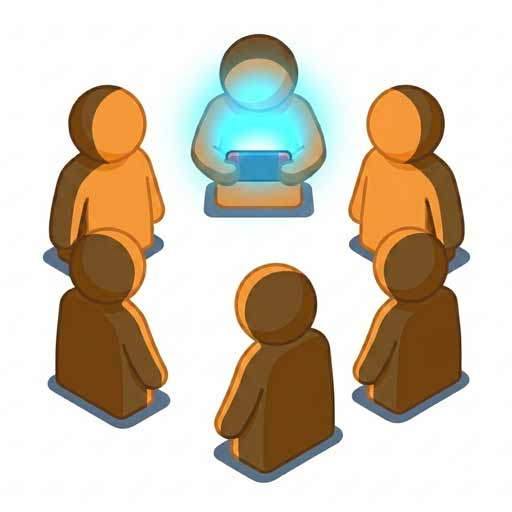
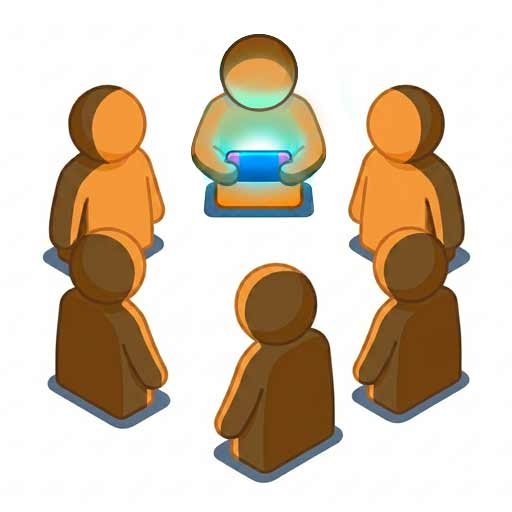
wip(trivia): park in-progress fast_casual_trivia screen changes
Parking pre-existing uncommitted work on the GameMode / TeamLeads /
TeamSelector screens (and GameMode_TeamLead.jpg) on a branch so it is
preserved and out of the way of the server-authoritative-rounds work.

Changed region(s): [[0.3438, 0.0625, 0.6875, 0.4375]]

diff --git a/src/app/games/fast_casual_trivia/screens/TeamLeadsAssignmentScreen.tsx b/src/app/games/fast_casual_trivia/screens/TeamLeadsAssignmentScreen.tsx
@@ -113,7 +113,7 @@ export function TeamLeadsAssignmentScreen({
   // ─── Host interactive view ────────────────────────────────
 
   return (
-    <div className="fixed inset-0 z-10 overflow-y-auto bg-black">
+    <div className="fixed inset-0 z-10 bg-black">
       <GameBgUnderlay url={bgURL} />
       <div className="absolute inset-0" style={{ backgroundColor: `rgba(0,0,0,${bgDim / 100})` }} />
 
@@ -132,7 +132,8 @@ export function TeamLeadsAssignmentScreen({
         Back
       </button>
 
-      <div className="relative z-10 mx-auto flex min-h-full w-full max-w-md flex-col px-4 py-8 text-white">
+      <div className="absolute inset-0 z-10 overflow-y-auto">
+      <div className="relative mx-auto flex min-h-full w-full max-w-md flex-col px-4 py-8 text-white">
         <header className="text-center">
           <h1 className="text-2xl font-extrabold">Team Leads</h1>
           <p className="mt-1 text-sm text-white/70">
@@ -206,6 +207,7 @@ export function TeamLeadsAssignmentScreen({
             )}
           </GamePrimaryButton>
         </div>
+      </div>
       </div>
 
       {/* Color picker popup */}

diff --git a/src/app/games/fast_casual_trivia/screens/GameModeScreen.tsx b/src/app/games/fast_casual_trivia/screens/GameModeScreen.tsx
@@ -82,11 +82,12 @@ export function GameModeScreen({
   const fullTeamSelected = selectedMode === "full_team";
 
   return (
-    <div className="fixed inset-0 z-10 overflow-y-auto bg-black">
+    <div className="fixed inset-0 z-10 bg-black">
       <GameBgUnderlay url={bgURL} />
       <div className="absolute inset-0" style={{ backgroundColor: `rgba(0,0,0,${bgDim / 100})` }} />
 
-      <div className="relative z-10 mx-auto flex min-h-full w-full max-w-md flex-col gap-4 px-5 py-8 text-white">
+      <div className="absolute inset-0 z-10 overflow-y-auto">
+      <div className="relative mx-auto flex min-h-full w-full max-w-md flex-col gap-4 px-5 py-8 text-white">
         <header className="text-center">
           <h1 className="text-2xl font-extrabold">Choose a mode</h1>
           <p className="mt-1 text-sm text-white/70">How do you want this room to play?</p>
@@ -165,6 +166,7 @@ export function GameModeScreen({
             onTap={handleTeamLeads}
           />
         </ModeSection>
+      </div>
       </div>
 
       <JMNumberPickerPopup

diff --git a/src/app/games/fast_casual_trivia/screens/TeamSelectorScreen.tsx b/src/app/games/fast_casual_trivia/screens/TeamSelectorScreen.tsx
@@ -236,7 +236,7 @@ export function TeamSelectorScreen({
     teamCount === 3 ? "grid-cols-3" : "grid-cols-2";
 
   return (
-    <div className="fixed inset-0 z-10 overflow-y-auto bg-black">
+    <div className="fixed inset-0 z-10 bg-black">
       <GameBgUnderlay url={bgURL} />
       <div
         className="absolute inset-0"
@@ -258,7 +258,8 @@ export function TeamSelectorScreen({
         Back
       </button>
 
-      <div className="relative z-10 mx-auto flex min-h-full w-full max-w-lg flex-col px-4 py-8 text-white">
+      <div className="absolute inset-0 z-10 overflow-y-auto">
+      <div className="relative mx-auto flex min-h-full w-full max-w-lg flex-col px-4 py-8 text-white">
         <header className="text-center">
           <h1 className="text-2xl font-extrabold">Form Teams</h1>
           <p className="mt-1 text-sm text-white/70">
@@ -369,6 +370,7 @@ export function TeamSelectorScreen({
             )}
           </GamePrimaryButton>
         </div>
+      </div>
       </div>
 
       {/* Team logo picker modal */}
